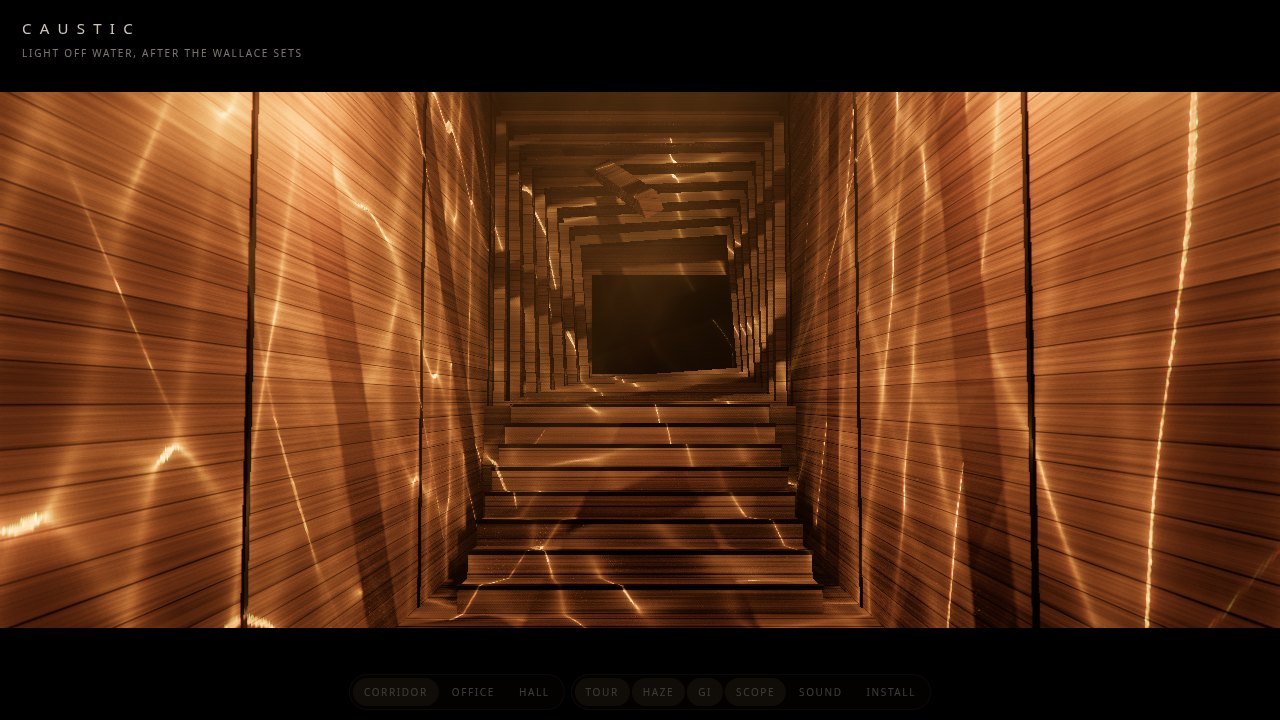
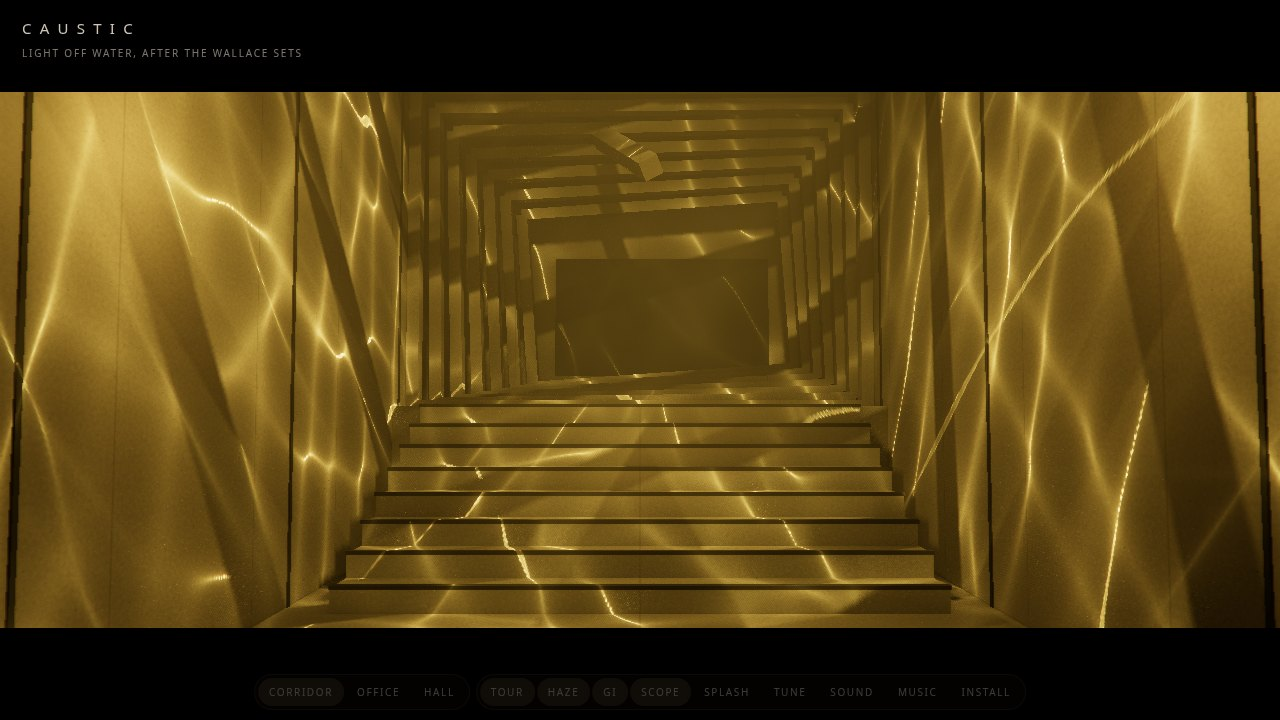
Caustic: one gold, one grade and one rough concrete for all three sets; wider corridor, narrower office, swinging hanging light

diff --git a/vibes/caustic/scenes.js b/vibes/caustic/scenes.js
@@ -17,7 +17,13 @@ import * as THREE from 'three/webgpu';
 import { RoundedBoxGeometry } from 'three/addons/geometries/RoundedBoxGeometry.js';
 import { texture, uv, vec3, vec2, time, Fn, color, float } from 'three/tsl';
 import { Caustics, causticSpot, bounce } from './caustics.js';
-import { wood, concrete, plain, leather, water } from './materials.js';
+import { wood, rough, plain, leather, water } from './materials.js';
+
+// One palette for the three sets, as in the film: the same gold lamps (tungsten through warm gels), the same rough
+// concrete, the same grade (each colour pulled toward its luminance times this gold; sat is how much survives).
+const GOLD = 0xffb840, GOLD2 = 0xffc050;
+const GRADE = { tint: [1.0, 0.7, 0.14], sat: 0.28 };
+const CONCRETE = 0x8a7c62, BOUNCE = 0x8a7656;
 
 function box(g, w, h, d, mat, x, y, z, { cast = true, receive = true, round = 0 } = {}) {
   const geo = round ? new RoundedBoxGeometry(w, h, d, 3, round) : new THREE.BoxGeometry(w, h, d);
@@ -40,9 +46,9 @@ function armchair(g, mat, legMat, x, z, ry, s = 1) {
 // ---------------------------------------------------------------- the corridor
 
 export function corridor(renderer, { phone = false } = {}) {
-  const g = new THREE.Group(), W = 3.4, H = 5.2, z0 = 3, z1 = -10.6;
-  const planks = wood({ base: 0x5a3818, light: 0xa8743a, h: 0.12 });
-  const floorWood = wood({ base: 0x4a2e15, light: 0x8f6131, h: 0.22, rough: 0.45 });
+  const g = new THREE.Group(), W = 5.4, H = 5.6, z0 = 3, z1 = -10.6;
+  const planks = rough({ panel: [1.6, 6] });
+  const floorWood = rough({ base: 0x6e6450, panel: [2.7, 2.7], rough: 0.75 });
   const dark = plain(0x0a0705, 0.9);
   // floor, walls (with the dark seams between their tall panels)
   box(g, W, 0.1, z0 - z1, floorWood, 0, -0.05, (z0 + z1) / 2, { cast: false });
@@ -51,7 +57,7 @@ export function corridor(renderer, { phone = false } = {}) {
     for (let z = z0 - 2.6; z > z1; z -= 2.9) box(g, 0.03, H, 0.035, dark, s * W / 2, H / 2, z, { cast: false });
   }
   // the stairs: eight steps, a little narrower than the corridor, up to a landing
-  const sw = 2.7, rise = 0.19, tread = 0.36, zs = -5.2;
+  const sw = W - 0.8, rise = 0.19, tread = 0.36, zs = -5.2;
   for (let i = 0; i < 8; i++) {
     const zf = zs - i * tread;
     box(g, sw, rise * (i + 1), tread + 0.04, floorWood, 0, rise * (i + 1) / 2, zf - tread / 2);
@@ -62,13 +68,13 @@ export function corridor(renderer, { phone = false } = {}) {
   // the portal: rectangular frames, each a little smaller and further, down to a black door
   const zp = zl - 0.6;
   for (let k = 0; k < 7; k++) {
-    const fw = W - 0.2 * k - 0.15, fh = H - top - 0.25 * k - 0.3, z = zp - 0.22 * k, cy = top + fh / 2 + 0.06 * k, t = 0.12;
+    const fw = W - 0.3 * k - 0.15, fh = H - top - 0.25 * k - 0.3, z = zp - 0.22 * k, cy = top + fh / 2 + 0.06 * k, t = 0.14;
     const fr = new THREE.Group(); fr.position.set(0.04 * k, cy, z); fr.rotation.z = 0.012 * k; g.add(fr);
     box(fr, fw, t, 0.18, planks, 0, fh / 2, 0); box(fr, fw, t, 0.18, planks, 0, -fh / 2, 0);
     box(fr, t, fh, 0.18, planks, -fw / 2, 0, 0); box(fr, t, fh, 0.18, planks, fw / 2, 0, 0);
   }
   const zd = zp - 1.7;
-  box(g, 1.9, 1.35, 0.1, plain(0x000000, 1), 0.3, top + 1.1, zd, { cast: false });
+  box(g, 2.9, 1.6, 0.1, plain(0x000000, 1), 0.3, top + 1.2, zd, { cast: false });
   box(g, W, H, 0.3, planks, 0, H / 2, zd - 0.2); // the wall around it
   // the roof: open above most of the corridor, crossed by slanting beams, with a ceiling over the portal
   for (let k = 0; k < 6; k++) { const b = box(g, W + 0.6, 0.16, 0.28, planks, 0, H + 0.3, z0 - 1.4 - k * 2.25); b.rotation.y = 0.5; }
@@ -78,22 +84,22 @@ export function corridor(renderer, { phone = false } = {}) {
 
   // light: steep reflections from above, from either side and from behind, all off one sloshing trough
   const lines = new Caustics(renderer, { kMin: 2, kMax: 9, amp: 1.0, depth: 0.075, speed: 0.55, dir: 0.3, spread: 1.1, grid: phone ? 160 : 256, seed: 3 });
-  const amber = 0xffa53a, sh = phone ? 512 : 1024;
+  const sh = phone ? 512 : 1024;
   const L = [
-    aim(g, causticSpot(lines, { color: amber, intensity: 1600, angle: 0.36, penumbra: 0.5, scale: 3.6, rot: 0.6, shadow: sh, far: 40 }), [6.5, 15, -2], [-1.7, 2.2, -3.2]),
-    aim(g, causticSpot(lines, { color: amber, intensity: 1400, angle: 0.34, penumbra: 0.5, scale: 3.2, rot: -0.7, drift: [0.004, 0.002], shadow: sh, far: 40 }), [-6.5, 15, -1], [1.7, 2.2, -2.5]),
-    aim(g, causticSpot(lines, { color: 0xffb04a, intensity: 1000, angle: 0.3, penumbra: 0.6, scale: 3.0, rot: 1.6, shadow: sh, far: 40 }), [0.5, 13, 8], [0, 1, -6.5]),
+    aim(g, causticSpot(lines, { color: GOLD, intensity: 1900, angle: 0.4, penumbra: 0.5, scale: 3.6, rot: 0.6, shadow: sh, far: 40 }), [8.5, 15, -2], [-2.7, 2.2, -3.2]),
+    aim(g, causticSpot(lines, { color: GOLD, intensity: 1700, angle: 0.38, penumbra: 0.5, scale: 3.2, rot: -0.7, drift: [0.004, 0.002], shadow: sh, far: 40 }), [-8.5, 15, -1], [2.7, 2.2, -2.5]),
+    aim(g, causticSpot(lines, { color: GOLD2, intensity: 1200, angle: 0.34, penumbra: 0.6, scale: 3.0, rot: 1.6, shadow: sh, far: 40 }), [0.5, 13, 8], [0, 1, -6.5]),
   ];
-  for (const l of L) g.add(bounce(l, { albedo: 0x9a6a38, share: 0.018, off: 1.0 }));
-  const fill = new THREE.HemisphereLight(0x8a5a2a, 0x1a0f06, 0.06); g.add(fill);
+  for (const l of L) g.add(bounce(l, { albedo: BOUNCE, share: 0.02, off: 1.0 }));
+  const fill = new THREE.HemisphereLight(0x8a7044, 0x1a1408, 0.06); g.add(fill);
   return {
     group: g, caustics: [lines], lights: L,
-    look: { exposure: 1.0, tint: [1.0, 0.62, 0.26], sat: 0.55, haze: 0.05, fog: 0x2a1708, bg: 0x050302 },
+    look: { exposure: 0.72, ...GRADE, haze: 0.05, fog: 0x2a1f0c, bg: 0x050302 },
     volume: { size: [W, H + 1.5, z0 - z1], at: [0, (H + 1.5) / 2, (z0 + z1) / 2] },
     shots: [
       { from: [0, 1.55, 2.6], to: [0, 1.6, -1.2], look0: [0, 2.0, -8], look1: [0, 2.1, -9], dur: 16, fov: 46 },
-      { from: [-1.2, 3.2, -1.5], to: [-0.9, 3.0, -3.5], look0: [1.6, 2.2, -4], look1: [1.6, 2.0, -6], dur: 12, fov: 38 },
-      { from: [0.9, 0.45, -2.2], to: [0.4, 0.6, -3.6], look0: [0, 1.0, -8], look1: [0, 1.6, -9], dur: 12, fov: 44 },
+      { from: [-2.0, 3.2, -1.5], to: [-1.6, 3.0, -3.5], look0: [2.6, 2.2, -4], look1: [2.6, 2.0, -6], dur: 12, fov: 40 },
+      { from: [1.5, 0.45, -2.2], to: [0.8, 0.6, -3.6], look0: [0, 1.0, -8], look1: [0, 1.6, -9], dur: 12, fov: 46 },
     ],
     update() {},
   };
@@ -102,15 +108,15 @@ export function corridor(renderer, { phone = false } = {}) {
 // ---------------------------------------------------------------- Wallace's office
 
 export function office(renderer, { phone = false } = {}) {
-  const g = new THREE.Group(), X = 8, H = 6, zf = 6, zb = -8;
-  const walls = concrete({ base: 0x7a5a30, panel: [2.6, 3], seam: 0.25 });
-  const floorMat = concrete({ base: 0x6a4e2a, panel: [4, 4], rough: 0.32, seam: 0.15 });
-  const ceil = concrete({ base: 0x4a3518, panel: [4, 4], seam: 0.2 });
+  const g = new THREE.Group(), X = 5.4, H = 6, zf = 6, zb = -8;
+  const walls = rough({ panel: [2.6, 3], seam: 0.25 });
+  const floorMat = rough({ base: 0x6e6450, panel: [4, 4], rough: 0.45, seam: 0.15, bump: 0.5 });
+  const ceil = rough({ base: 0x4a4232, panel: [4, 4], seam: 0.2 });
   box(g, 2 * X, 0.1, zf - zb, floorMat, 0, -0.05, (zf + zb) / 2, { cast: false });
   box(g, 2 * X, 0.4, zf - zb, ceil, 0, H + 0.2, (zf + zb) / 2);
   // the back wall, with a long recessed shelf; side walls stepped into deep pilasters that throw shadows
   box(g, 2 * X, H, 0.4, walls, 0, H / 2, zb - 0.2);
-  box(g, 9, 0.12, 0.9, walls, 0, 2.2, zb + 0.45); box(g, 9, 0.6, 0.5, walls, 0, 1.9, zb + 0.25);
+  box(g, 7, 0.12, 0.9, walls, 0, 2.2, zb + 0.45); box(g, 7, 0.6, 0.5, walls, 0, 1.9, zb + 0.25);
   for (const s of [-1, 1]) {
     box(g, 0.4, H, zf - zb, walls, s * (X + 0.2), H / 2, (zf + zb) / 2);
     for (let z = zb + 2.2; z < zf; z += 3.4) box(g, 0.7, H, 0.9, walls, s * (X - 0.35), H / 2, z);
@@ -128,30 +134,30 @@ export function office(renderer, { phone = false } = {}) {
   for (const s of [-1, 1]) box(g, 0.05, 0.78, 0.05, steel, s * 2.3, 0.39, -4.4);
   box(g, 0.32, 0.12, 0.25, plain(0x1c1712, 0.4), 0.1, 0.92, -4.6);
   armchair(g, cream, steel, 0, -5.6, 0, 1.05);
-  armchair(g, cream, steel, 4.2, -1.6, -2.2, 1.15); armchair(g, cream, steel, 5.6, -3.0, -1.0, 1.15);
-  box(g, 0.8, 0.45, 0.8, lacquer, 4.7, 0.225, -2.5);
-  box(g, 0.12, 0.2, 0.12, plain(0xeee4d0, 0.15), 4.6, 0.55, -2.4);
+  armchair(g, cream, steel, 2.9, -1.6, -2.2, 1.15); armchair(g, cream, steel, 4.1, -3.0, -1.0, 1.15);
+  box(g, 0.8, 0.45, 0.8, lacquer, 3.4, 0.225, -2.5);
+  box(g, 0.12, 0.2, 0.12, plain(0xeee4d0, 0.15), 3.3, 0.55, -2.4);
 
   // light: the reflection of water from troughs along the front wall up onto the back and side walls, and the
   // skylight's down onto the floor. Broad, slow ribbons.
   const broad = new Caustics(renderer, { kMin: 2, kMax: 6, amp: 1.0, depth: 0.06, speed: 0.4, dir: 0, spread: 0.9, grid: phone ? 160 : 256, seed: 11 });
-  const gold = 0xffac38, sh = phone ? 512 : 1024;
+  const sh = phone ? 512 : 1024;
   const L = [
-    aim(g, causticSpot(broad, { color: gold, intensity: 900, angle: 0.42, penumbra: 0.7, scale: 2.4, rot: 0.1, shadow: sh }), [0, 0.6, 5.3], [0, 3.6, -8]),
-    aim(g, causticSpot(broad, { color: gold, intensity: 700, angle: 0.5, penumbra: 0.7, scale: 2.2, rot: 1.3, drift: [0.003, 0], shadow: sh }), [6.8, 0.5, 5], [-8, 3.2, -3]),
-    aim(g, causticSpot(broad, { color: gold, intensity: 700, angle: 0.5, penumbra: 0.7, scale: 2.1, rot: -1.2, drift: [-0.002, 0.003], shadow: sh }), [-6.8, 0.5, 5], [8, 3.2, -3]),
-    aim(g, causticSpot(soft, { color: 0xffb450, intensity: 1300, angle: 0.62, penumbra: 0.8, scale: 2.0, rot: 0.4, shadow: sh }), [0, 14, -1.5], [0, 0, -0.5]),
+    aim(g, causticSpot(broad, { color: GOLD, intensity: 900, angle: 0.42, penumbra: 0.7, scale: 2.4, rot: 0.1, shadow: sh }), [0, 0.6, 5.3], [0, 3.6, -8]),
+    aim(g, causticSpot(broad, { color: GOLD, intensity: 650, angle: 0.5, penumbra: 0.7, scale: 2.2, rot: 1.3, drift: [0.003, 0], shadow: sh }), [4.7, 0.5, 5], [-5.4, 3.2, -3]),
+    aim(g, causticSpot(broad, { color: GOLD, intensity: 650, angle: 0.5, penumbra: 0.7, scale: 2.1, rot: -1.2, drift: [-0.002, 0.003], shadow: sh }), [-4.7, 0.5, 5], [5.4, 3.2, -3]),
+    aim(g, causticSpot(soft, { color: GOLD2, intensity: 1300, angle: 0.62, penumbra: 0.8, scale: 2.0, rot: 0.4, shadow: sh }), [0, 14, -1.5], [0, 0, -0.5]),
   ];
-  for (const l of L) g.add(bounce(l, { albedo: 0x8a6a3a, share: 0.06, off: 2.0 }));
-  g.add(new THREE.HemisphereLight(0x9a6a30, 0x2a1a08, 0.08));
+  for (const l of L) g.add(bounce(l, { albedo: BOUNCE, share: 0.06, off: 2.0 }));
+  g.add(new THREE.HemisphereLight(0x8a7044, 0x2a2010, 0.08));
   return {
     group: g, caustics: [broad, soft], lights: L,
-    look: { exposure: 0.95, tint: [1.0, 0.66, 0.24], sat: 0.45, haze: 0.025, fog: 0x2a1a08, bg: 0x070502 },
+    look: { exposure: 0.72, ...GRADE, haze: 0.025, fog: 0x2a200c, bg: 0x070502 },
     volume: { size: [2 * X, H, zf - zb], at: [0, H / 2, (zf + zb) / 2] },
     shots: [
-      { from: [0, 1.7, 5.4], to: [0, 1.75, 3.6], look0: [0, 2.3, -8], look1: [0, 2.2, -8], dur: 18, fov: 50 },
-      { from: [-5.5, 1.4, 2.5], to: [-4, 1.5, 1.5], look0: [4.5, 1.2, -3], look1: [4.2, 1.3, -3.5], dur: 12, fov: 40 },
-      { from: [3.5, 4.5, 4.5], to: [1.5, 4.8, 4.5], look0: [-2, 1.5, -6], look1: [0, 1.4, -6], dur: 12, fov: 45 },
+      { from: [0, 1.7, 5.5], to: [0, 1.75, 4.0], look0: [0, 2.3, -8], look1: [0, 2.2, -8], dur: 18, fov: 62 },
+      { from: [-4.4, 1.4, 3.2], to: [-3.6, 1.5, 2.2], look0: [3.3, 1.2, -3], look1: [3.1, 1.3, -3.5], dur: 12, fov: 54 },
+      { from: [3.0, 4.5, 5.0], to: [1.2, 4.8, 5.0], look0: [-1.5, 1.5, -6], look1: [0, 1.4, -6], dur: 12, fov: 58 },
     ],
     update() {},
   };
@@ -171,36 +177,43 @@ export function hall(renderer, scene, { phone = false } = {}) {
   for (const [x, h] of [[-0.35, 0.22], [-0.2, 0.26], [-0.12, 0.18]]) box(g, 0.06, h, 0.06, plain(0x2a1d10, 0.1), x, 0.64 + h / 2, -1.4);
   for (let k = 0; k < 9; k++) box(g, 0.75, 0.16, 0.5, stone, 5.3 + k * 1.15, 0.05, 2.2 + k * 0.12);
   // the far walls: two long curved screens, open in the middle (the dark beyond), for the light to climb
-  const wallMat = concrete({ base: 0x5a4220, panel: [6, 40], rough: 0.7, seam: 0.1 });
+  const wallMat = rough({ base: 0x6a604c, panel: [6, 40], seam: 0.1 });
   for (const s of [-1, 1]) {
     const geo = new THREE.CylinderGeometry(34, 34, 16, 96, 1, true, s < 0 ? Math.PI + 0.25 : Math.PI - 1.45, 1.2);
     const m = new THREE.Mesh(geo, wallMat); m.material.side = THREE.BackSide; m.position.set(0, 8, 8); m.receiveShadow = true; g.add(m);
   }
-  // the slit of light hanging overhead, and the beam it throws down onto the platform
-  const slit = new THREE.Mesh(new THREE.BoxGeometry(4.2, 0.05, 0.22), new THREE.MeshBasicNodeMaterial({ color: new THREE.Color(1, 0.72, 0.36).multiplyScalar(30) }));
-  slit.position.set(0, 5.6, -7.5); g.add(slit);
-  const down = new THREE.SpotLight(0xffc27a, 260, 0, 0.45, 0.8, 2); down.castShadow = true; down.shadow.mapSize.set(1024, 1024); down.shadow.bias = -0.0004;
-  aim(g, down, [0, 5.5, -7.3], [0, 0, -0.5]);
+  // the light hanging overhead: a thin glowing disc (an ellipse from where you stand) on a long cable from the dark,
+  // swinging slowly as a pendulum, and the beam it throws down onto the platform swinging with it
+  const pivot = new THREE.Group(); pivot.position.set(0, 13, -7.5); g.add(pivot);
+  const LEN = 7.4;
+  const cable = new THREE.Mesh(new THREE.CylinderGeometry(0.008, 0.008, LEN, 6), plain(0x050403, 0.6)); cable.position.y = -LEN / 2; pivot.add(cable);
+  const slit = new THREE.Mesh(new THREE.CylinderGeometry(2.0, 2.0, 0.04, 64), new THREE.MeshBasicNodeMaterial({ color: new THREE.Color(1, 0.78, 0.4).multiplyScalar(16) }));
+  slit.position.y = -LEN; pivot.add(slit);
+  const down = new THREE.SpotLight(GOLD2, 260, 0, 0.45, 0.8, 2); down.castShadow = true; down.shadow.mapSize.set(1024, 1024); down.shadow.bias = -0.0004;
+  down.position.set(0, -LEN - 0.1, 0.2); pivot.add(down); down.target.position.set(0, 0, -0.5); g.add(down.target);
   const ripples = new Caustics(renderer, { kMin: 5, kMax: 16, amp: 1.0, depth: 0.05, speed: 0.6, dir: 0, spread: Math.PI, grid: phone ? 160 : 256, seed: 5 });
-  const gold = 0xffaf3c, sh = phone ? 512 : 1024;
+  const gold = GOLD, sh = phone ? 512 : 1024;
   const L = [
     aim(g, causticSpot(ripples, { color: gold, intensity: 5000, angle: 0.5, penumbra: 1, scale: 4.5, rot: 0.2, shadow: sh, far: 90 }), [-4, 0.1, 12], [-24, 0.5, -14]),
     aim(g, causticSpot(ripples, { color: gold, intensity: 5000, angle: 0.5, penumbra: 1, scale: 4.2, rot: -0.4, drift: [0.002, 0], shadow: sh, far: 90 }), [4, 0.1, 12], [24, 0.5, -14]),
     down,
   ];
-  for (const l of L.slice(0, 2)) g.add(bounce(l, { albedo: 0x6a5030, share: 0.01, off: 4.0 }));
-  g.add(bounce(down, { albedo: 0x7a5228, share: 0.02, off: 1.6 }));
-  g.add(new THREE.HemisphereLight(0x3a2a18, 0x050302, 0.03));
+  for (const l of L.slice(0, 2)) g.add(bounce(l, { albedo: BOUNCE, share: 0.01, off: 4.0 }));
+  pivot.updateMatrixWorld(true); down.position.applyMatrix4(pivot.matrixWorld); // bounce() reads world positions
+  const deckBounce = bounce(down, { albedo: 0x7a6040, share: 0.02, off: 1.6 }); g.add(deckBounce);
+  down.position.set(0, -LEN - 0.1, 0.2);
+  g.add(new THREE.HemisphereLight(0x3a3018, 0x050302, 0.03));
   return {
     group: g, caustics: [ripples], lights: L, reflector: w.reflector,
-    look: { exposure: 1.0, tint: [1.0, 0.68, 0.3], sat: 0.6, haze: 0.016, fog: 0x0a0603, bg: 0x000000 },
+    look: { exposure: 1.0, ...GRADE, haze: 0.016, fog: 0x0a0803, bg: 0x000000 },
     volume: { size: [50, 14, 30], at: [0, 7, -9] }, // stops short of the low wall lamps, which would glare
     shots: [
       { from: [3, 6.5, 18], to: [1.5, 6.0, 16], look0: [0, 2.2, -5], look1: [0, 2.4, -5], dur: 18, fov: 40 },
       { from: [-6, 0.9, 6], to: [-4.5, 0.8, 5], look0: [0.5, 0.8, -1], look1: [0, 1.0, -2], dur: 12, fov: 38 },
       { from: [12, 0.5, 9], to: [9, 0.6, 8], look0: [-2, 2.5, -12], look1: [-6, 3.5, -16], dur: 14, fov: 40 },
     ],
-    update() {},
+    // two slow pendulum swings at slightly different periods, so the light's path wanders like a real one
+    update(t) { pivot.rotation.x = 0.06 * Math.sin(t * 2 * Math.PI / 7.2); pivot.rotation.z = 0.04 * Math.sin(t * 2 * Math.PI / 9.1 + 1.3); },
   };
 }
 

diff --git a/vibes/caustic/materials.js b/vibes/caustic/materials.js
@@ -1,7 +1,7 @@
 // materials.js - procedural surfaces in TSL: the corridor's planked wood, Wallace's warm concrete, leather,
 // dark lacquer and the black water of the hall.
 import * as THREE from 'three/webgpu';
-import { Fn, vec2, vec3, float, positionWorld, normalWorld, abs, mix, smoothstep, fract, floor, mx_noise_float, mx_fractal_noise_float, hash, select, color, uniform, reflector, time, sin, normalView, positionLocal } from 'three/tsl';
+import { Fn, vec2, vec3, float, positionWorld, normalWorld, abs, mix, smoothstep, fract, floor, mx_noise_float, mx_fractal_noise_float, mx_worley_noise_float, bumpMap, hash, select, color, uniform, reflector, time, sin, normalView, positionLocal } from 'three/tsl';
 
 // world-space coordinates on the face a fragment is on: (along, up) for walls, (x, z) for floors
 const faceUV = Fn(() => {
@@ -40,6 +40,30 @@ export function concrete({ base = 0x8a6a3a, panel = [3, 3], rough = 0.6, seam = 
     return A.mul(blot.add(pores)).mul(s.mul(seam).add(1 - seam));
   })();
   m.roughnessNode = Fn(() => float(rough).add(mx_noise_float(vec3(faceUV().mul(0.8), 4)).mul(0.15)))();
+  return m;
+}
+
+// The one wall surface of all three sets: rough board-formed concrete. Broad blotches and stains, sandy grit,
+// small air pits, tall panel seams, and the same height field bumped into the normal so a raking caustic
+// catches the grain. Its colour is a neutral warm grey: the gold comes from the lamps and the grade.
+export function rough({ base = 0x76694e, panel = [1.5, 3.2], seam = 0.3, rough = 0.88, bump = 1, scale = 1 } = {}) {
+  const m = new THREE.MeshStandardNodeMaterial({ roughness: rough, metalness: 0 });
+  const A = color(base);
+  const parts = Fn(() => {
+    const uv = faceUV().mul(scale);
+    const blot = mx_fractal_noise_float(vec3(uv.mul(0.45), 1), 4, 2, 0.5);
+    const grit = mx_fractal_noise_float(vec3(uv.mul(38), 3), 3, 2.1, 0.55);
+    const pit = smoothstep(0.08, 0.02, mx_worley_noise_float(vec3(uv.mul(11), 5)));
+    const board = mx_noise_float(vec3(uv.x.mul(0.6), uv.y.mul(9), 7)); // faint horizontal formwork streaks
+    return vec3(blot, grit, pit).add(vec3(0, board.mul(0.4), 0));
+  });
+  const seamOf = Fn(() => { const g = fract(faceUV().div(vec2(...panel))), e = vec2(...panel).mul(g.min(g.oneMinus())); return smoothstep(0.0, 0.01, e.x.min(e.y)); });
+  m.colorNode = Fn(() => {
+    const q = parts();
+    return A.mul(q.x.mul(0.22).add(1)).mul(q.y.mul(0.12).add(1)).mul(q.z.mul(-0.45).add(1)).mul(seamOf().mul(seam).add(1 - seam));
+  })();
+  m.normalNode = bumpMap(Fn(() => { const q = parts(); return q.y.mul(0.5).add(q.x.mul(0.2)).sub(q.z.mul(0.8)).add(seamOf().mul(0.6)); })(), 0.012 * bump);
+  m.roughnessNode = Fn(() => float(rough).add(parts().y.mul(0.06)))();
   return m;
 }
 

diff --git a/vibes/caustic/main.js b/vibes/caustic/main.js
@@ -288,6 +288,7 @@ function frame() {
   if (tour && !pending) { const s = cur.shots[shotIndex]; shotT += dt / s.dur; place(shotT); if (shotT > 1 && !fadeT) next(); }
   else if (!tour) controls.update();
   wt += dt * TUNE.speed;
+  cur.update?.(t);
   for (const c of cur.caustics) c.update(wt);
   if (drone.on) drone.set(name);
   if (!OFF) draw();
@@ -301,7 +302,7 @@ if ('serviceWorker' in navigator && !SHOT && location.protocol === 'https:') nav
 // for the smoke test
 window.__caustic = {
   renderer, scene, camera, sets, get set() { return name; }, LOOK, hazeOn, GI, TUNE, applyTune, splashAt, splashAll, renderBars,
-  show, async frame(n = 1, dt = 1 / 30) { for (let i = 0; i < n; i++) { t += dt; wt += dt * TUNE.speed; for (const c of cur.caustics) c.update(wt); if (tour && cur) { shotT += dt / cur.shots[shotIndex].dur; place(Math.min(1, shotT)); } } await snapshot(); },
+  show, async frame(n = 1, dt = 1 / 30) { for (let i = 0; i < n; i++) { t += dt; wt += dt * TUNE.speed; cur.update?.(t); for (const c of cur.caustics) c.update(wt); if (tour && cur) { shotT += dt / cur.shots[shotIndex].dur; place(Math.min(1, shotT)); } } await snapshot(); },
   shot(i, at = 0.5) { startShot(i); shotT = at; place(at); },
   // a splash's effect on the caustic: the mean |difference| between the texture with and without one
   async splashTest() {

diff --git a/README.md b/README.md
@@ -16,7 +16,7 @@
 - [Koi](vibes/koi/) - A quiet koi pond in three.js to leave open for hours, seen from above and made for phones. Water through a refracting, rippling surface onto a pebble bottom: Beer-Lambert water colour, photon-traced caustics, sunlight through a swaying maple canopy, fish and lily-pad shadows, and canopy reflections with sun glints. A dozen koi of 12 varieties (kohaku, sanke, showa, ogon, butterfly platinum...) on shader-bent spines, with path-following bodies, beat-and-glide swimming and fins that tuck, paddle and flow. Lily pads with water lilies, and cherry petals or maple and ginkgo leaves by season. Touch modes Ripple / Feed / Call, tilt for parallax, a moving glint and drifting leaves, shake to slosh and scatter. Animated watercolour mode, synthesised pond sounds, adaptive render scale, offline PWA
 - [Mossglen](vibes/mossglen/) - A moss-covered Scottish glen in three.js: a recumbent stone circle above a peaty burn, oaks with buttress roots, ferns and rushes. Moss grows on a front that follows water and shade (shortest-path arrival time over the mesh, gated by habitat), from the banks over hummocks and up stones and trunks; scrub it with Growth and Cover, or paint it on and scrape it off and painted moss creeps outward. Shell-rendered cushion moss with nodding sporophytes, fiddleheads that unroll as moss arrives, four lights from morning mist to a wisp-lit gloaming, light shafts, bloom. Quality tiers and adaptive render scale for phones, offline PWA
 - [Membrane](vibes/membrane/) - Peel the membrane off the inside of a broken eggshell without tearing it: a GPU cloth in three.js TSL compute shaders (position-based dynamics, Jacobi, 8 substeps) glued to the shell, which lets go by Kendall's peel angle, so peeling off the wall or folding back works and dragging along it or yanking tears. Links neck and creep before they break, so tears run and part softly. Raw-egg wet: a viscous sheet, a shell film that beads and dries, threads of egg white that stretch, thin and snap. Pick the shell up and turn it (a second finger, or the arrow keys, while you peel), a time / peeled / intact HUD with a 50 mm tear limit, score and stars, synthesised squelches and plips. A second game, Yolk: pinch a raw yolk by its skin (a closed cloth around an incompressible liquid) and carry it to a bowl, with a grip you set: too light and it slips out, too tight and it bursts. A small oiled oak board on a plinth in a window-lit studio with godrays and soft mullion shadows, offline PWA
-- [Caustic](vibes/caustic/) - Light off water, after the Wallace sets in Blade Runner 2049: the planked wooden corridor with its stairs and receding portal frames, Wallace's office with slow gold ribbons over warm concrete, and the hall of water with its black flooded floor, platform, stepping stones and slit light. Lit as Deakins did it, by lamps bounced off rippling water: a live caustic texture projected through shadowed spot lights, SSGI with TRAA plus a virtual bounce light per beam, raymarched haze in the beams, reflected water, anamorphic streaks, an amber grade, 2.39:1 bars, a slow camera tour and a drone. three.js r187 WebGPU + TSL, offline PWA
+- [Caustic](vibes/caustic/) - Light off water, after the Wallace sets in Blade Runner 2049: the wide concrete corridor with its stairs and receding portal frames, Wallace's office with slow gold ribbons over warm concrete, and the hall of water with its black flooded floor, platform, stepping stones and a swinging hanging light. Lit as Deakins did it, by lamps bounced off rippling water: a live caustic texture projected through shadowed spot lights, SSGI with TRAA plus a virtual bounce light per beam, raymarched haze in the beams, reflected water, anamorphic streaks, an amber grade, 2.39:1 bars, a slow camera tour and a drone. three.js r187 WebGPU + TSL, offline PWA
 - [Hollow](vibes/hollow/) - Generated wooden sculptures hollowed by smooth carving: an SDF vessel, pebble, totem, ring or lobed cluster pierced by tunnels, scoops, grooves and gyroid lattices with filleted edges, surface-net meshing in a worker with baked occlusion, solid procedural grain in TSL (walnut, oak, cherry, curly maple, olive, zebrano, padauk, ash, spalted beech; oil, wax, lacquer, bare) so rings run through the cuts. A gallery plinth under skylight, morning window, golden hour or studio light with shadows, godrays and dust motes in the beam through the window frame, GTAO and bloom, an optional glass case, and generated music played on wooden bars. three.js r187 WebGPU + TSL, offline PWA
 - [Sorairo](vibes/sorairo/) - Anime / Makoto Shinkai-style hillside in three.js: a lone procedural tree (branch tubes + sphere-normal leaf-cluster billboards, summer / sakura / autumn) dropping leaves or petals, 170k wind-blown grass blades with rolling gust sheen and wildflowers, towering painted cumulus, cloud shadows, utility poles with sagging wires, five times of day from noon to a magic-hour sunset and a firefly night, played as a day-cycle time-lapse or a four-seasons year (snow melt, cherry blossom, summer, the autumn turn, shedding, snowfall). Post chain: light shafts through the canopy, bloom, lens flare, saturation-preserving tone map, and an anisotropic Kuwahara filter for a gouache / oil-paint look with canvas texture
 - [Line Rider 3D](vibes/line-rider-3d/) - Line Rider in 3D: draw on a sketch plane you can turn (or turn while drawing) and every stroke becomes a ribbon track, 2D Line Rider per plane with corkscrews, banked top-down turns, line-end snapping and 3D bridges between ends. Verlet sledder with breakable bindings (bosh), one-sided ribbons, runner grip, accelerate and scenery lines, 2.5D side view by default (2D Line Rider with depth, camera swings around corners while riding) or free 3D, recorded timeline, demo track ridden crash-free in tests

diff --git a/vibes/caustic/POST.md b/vibes/caustic/POST.md
@@ -28,6 +28,10 @@ Each set has its own water, so its own look:
 
 `depth` is the focus. Short and the lines are soft; long and they sharpen, then break up into a busy net as rays cross more than once.
 
+## One concrete
+
+The walls, floors and frames of all three sets are one material, `rough()` in `materials.js`: board-formed concrete. A height field is built from broad fractal blotches, a fine sandy grit, small air pits from Worley noise and faint horizontal formwork streaks. The same field darkens the colour where it is low and goes through `bumpMap` into the normal, so a raking caustic catches the grain: the lines break up a little over the grit, as they do on the set. Tall panel seams are cut in the same way. Only the hall's deck is still wood.
+
 ## Projecting it
 
 In r187 a `SpotLight` takes a `colorNode`: a TSL function from the point's coordinate in the light's projection (its shadow matrix) to a colour. Each "Fresnel" is a spot light whose `colorNode` samples the caustic texture at that coordinate, turned, repeated 2 to 4.5 times and drifting slowly, so two lamps off the same water don't show the same pattern. Because it's a real light with a shadow map, the portal frames, roof beams, desk and chairs cut shadows into the ripples, which is most of what makes it read as the film.
@@ -39,6 +43,10 @@ The real sets glow because the amber light bounces off wood and concrete. Two ch
 - **One virtual light per beam.** Where each beam lands, a dim, unshadowed point light sits just off the surface, in the beam's colour times the surface's, carrying a few percent of the beam's power. This is instant radiosity cut down to one bounce and one light. It warms the ceiling, the floor and the shadow sides, and it costs almost nothing, so phones keep it.
 - **SSGI with TRAA.** On desktop, three's `ssgi` node runs on a scene pass that also writes albedo, normals and velocity (MRT). It's composited as `beauty * AO + albedo * GI`, then temporal reprojection AA (`traa`) averages away its noise over frames, and antialiases too. The GI button turns it off.
 
+## The hanging light
+
+The hall's light is a thin glowing disc on a long cable, so from the shore it reads as the ellipse in the film. It hangs from a pivot 13 m up and swings as a pendulum: two slow sines, 7.2 s and 9.1 s, of 3.4 and 2.3 degrees, so its path wanders. The spot light that throws the pool of light onto the platform hangs from the same pivot and aims at a fixed point, so the pool and the chairs' shadows sway with it, and the disc's reflection slides over the black water.
+
 ## Haze, water and the lens
 
 - **Haze**: a `VolumeNodeMaterial` box raymarched at half resolution, lit by the same projected spot lights, so each beam carries its ripples through the air. A Bayer dither per frame hides the step pattern, and the volume goes through a bloom mip chain as a blur before it's added. It has to stay faint: at the first setting tried, the haze washed every set out to beige.
@@ -47,14 +55,16 @@ The real sets glow because the amber light bounces off wood and concrete. Two ch
 
 ## Where the orange comes from
 
-The amber comes from four places, and they stack:
+The gold comes from four places, and they stack:
 
-1. **The lamps**: every caustic spot light is gold (`0xffa53a` and nearby), as tungsten through warm gels is.
-2. **The materials**: wood is orange-brown, the concrete warm grey, the leather cream.
-3. **The bounce lights**: their colour is lamp times surface, so orange squared.
-4. **The grade**, last and strongest: each pixel is pulled toward its luminance times an amber tint, `mix(tint * luma * 2.2, colour, sat)`, with a toe that sinks the shadows. Each set's `look` sets its own tint and `sat` (corridor 1.0/0.62/0.26 at 0.55, office 1.0/0.66/0.24 at 0.45, hall 1.0/0.68/0.30 at 0.6). Lower `sat` means more monochrome amber.
+1. **The lamps**: every caustic spot light is the same gold, `0xffb840` (or `0xffc050` for the skylight and the hanging light), as tungsten through warm gels is.
+2. **The materials**: all three sets share one rough concrete, a neutral warm grey (`0x76694e`), so the walls don't add a colour of their own.
+3. **The bounce lights**: their colour is lamp times surface.
+4. **The grade**, last and strongest: each pixel is pulled toward its luminance times a gold tint, `mix(tint * luma * 2.2, colour, sat)`, with a toe that sinks the shadows. All three sets share one grade: tint 1.0 / 0.70 / 0.14 with sat 0.28, so only 28% of the scene's own colour survives.
 
-The Tune panel's **Warmth** slider moves the grade's tint toward grey (same luminance) and the lamps toward white, and past 1 makes it more orange still. **Colour** sets how much of the scene's own colour survives the grade. The wood stays wood-coloured either way.
+The first version gave each set its own lamp colour, material and grade, and the corridor was the most orange on all four counts: oiled wood that is orange-brown itself, lamps at `0xffa53a` (the most orange), a tint whose green was lowest (0.62) and wood-coloured bounce lights. Against the three film stills, which are all the same gold, that read as a different film. Now `scenes.js` holds one `GOLD`, one `GRADE` and one `CONCRETE` for all three, and the sets differ only in their water and their geometry.
+
+The Tune panel's **Warmth** slider moves the grade's tint toward grey (same luminance) and the lamps toward white, and past 1 makes it more orange still. **Colour** sets how much of the scene's own colour survives the grade.
 
 ![Warmth 0.25, choppier water](shot_tune.jpg)
 

diff --git a/CHANGELOG.md b/CHANGELOG.md
@@ -1,6 +1,7 @@
 # Logs
 
 11 Nov 2026
+- Caustic: the three sets made consistent against the film stills. One gold lamp colour, one grade (tint 1.0/0.70/0.14, 28% of the scene's colour kept) and one rough board-formed concrete (grit, air pits, formwork streaks, bumped into the normal) for all three; the corridor was orange because its wood, lamps, tint and bounce were all the most orange. The corridor is wider (5.4 m), the office narrower (10.8 m) with wider lenses, and the hall's light is a disc on a cable that swings as a slow pendulum, its beam and the platform's shadows swaying with it
 - Caustic: touch the water and tune it. Tap a lit wall and a ring of ripples runs out from that point on the water that lights it (the tap is raycast and projected through the lamp's shadow matrix and its caustic transform to the tile; the splash is a wrapped wave packet added to the gradient), Splash stirs at random. A Tune panel: Warmth (the grade's tint and the lamps' colour), Colour, Exposure, Haze, Ripple size, Sharpness, Wave height, Water speed. Music: a slow synthesised cyberpunk score (CS-80-style pads, sequenced bass, delayed arpeggio, lead, gated-snare drum machine). A technical write-up in POST.md. `node smoke.js` (21 checks)
 - Caustic replaced: the lens and cup toy are gone, and Caustic is now the caustic-lit Wallace sets from Blade Runner 2049 (corridor, office, hall of water) in three.js r187 WebGPU + TSL. Lit the way Deakins lit them, lamps bounced off water: each set renders a tileable caustic texture from a travelling-wave surface (grid projected along the gradient, area ratio from derivatives, three draws for dispersion), projected through shadowed spot lights' `colorNode`. SSGI + TRAA and a virtual point light per beam for the bounce, raymarched volume haze, a reflector floor in the hall, bloom with an anamorphic streak, amber grade, 2.39:1 bars, a camera tour, a drone. `node smoke.js` (12 checks: WebGL 2 in full, WebGPU without the haze, which SwiftShader can't run)
 - Add [Caustic](vibes/caustic/) (Codevember: Caustic). The lens: pick a picture (drawn presets, typed text, your own drawing, a photo or a selfie) and the app shapes a surface whose caustic draws it, by optimal transport (Poisson corner flow with area-scaled steps and a fold guard that lets thin cells go concave) and a least-squares height solve, both exact DCT Poisson solves in a worker. Three surfaces: an acrylic slab in a sunbeam 1 m from a wall, a bronze magic mirror (makkyo) with a lamp on the wall and the picture in relief on its back, and a pool 2.5 m deep whose water writes on the floor, with waves you poke that scramble it until it calms. The caustic is traced on the GPU from the surface (refraction or reflection per vertex, flux from screen-space derivatives, additive float passes per colour for dispersion and per sample of the sun's disc). A light pad tilts the sun or moves the lamp, the picture only focuses at its design distance, the light morphs between successive pictures, STL export in mm. The cup (`cup.html`): sun or lamp over a cup, ellipse, parabolic bowl, heart, flower or a drawn mirror, every ray traced (grid-accelerated, up to 6 bounces) and summed in float, with the exact envelope on demand. `node --test test_ot.js` (6), `node smoke.js` (12 checks)

diff --git a/vibes/caustic/README.md b/vibes/caustic/README.md
@@ -2,9 +2,11 @@
 
 Light off water, after the Wallace sets in *Blade Runner 2049*. Three sets, each lit only by light thrown off rippling water:
 
-- **Corridor**: the planked wooden passage with stairs climbing through receding, tilted portal frames, with thin bright lines running down the walls and over the steps.
+- **Corridor**: the wide concrete passage with stairs climbing through receding, tilted portal frames, with thin bright lines running down the walls and over the steps.
 - **Office**: Wallace's office: warm concrete, pilasters and a long shelf, a skylight, a desk and chairs, with broad, slow gold ribbons over the back wall and floor.
-- **Hall**: the hall of water: a black flooded floor, a wooden platform with two leather chairs, stepping stones, a slit of light overhead and fine ripples on the curved walls.
+- **Hall**: the hall of water: a black flooded floor, a wooden platform with two leather chairs, stepping stones, a disc of light swinging slowly on a long cable overhead and fine ripples on the curved walls.
+
+All three share one gold lamp colour, one rough concrete and one grade, so they read as one building.
 
 ![corridor](shot_corridor.jpg)
 ![office](shot_office.jpg)
